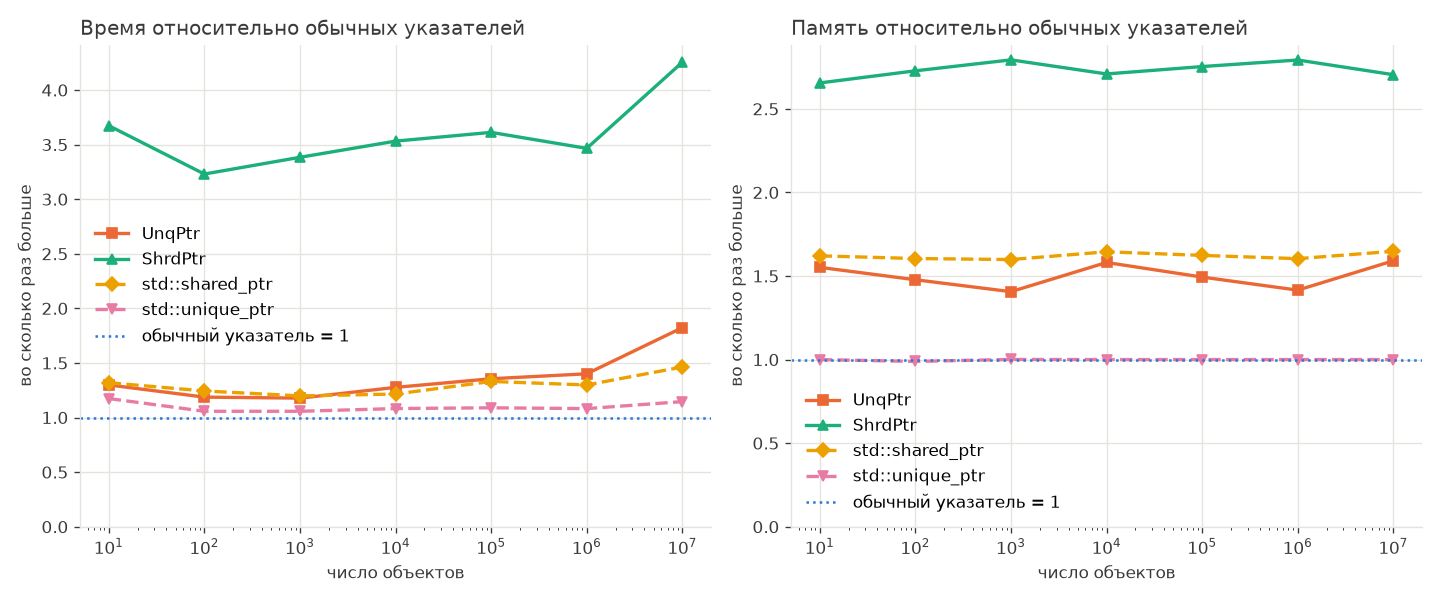
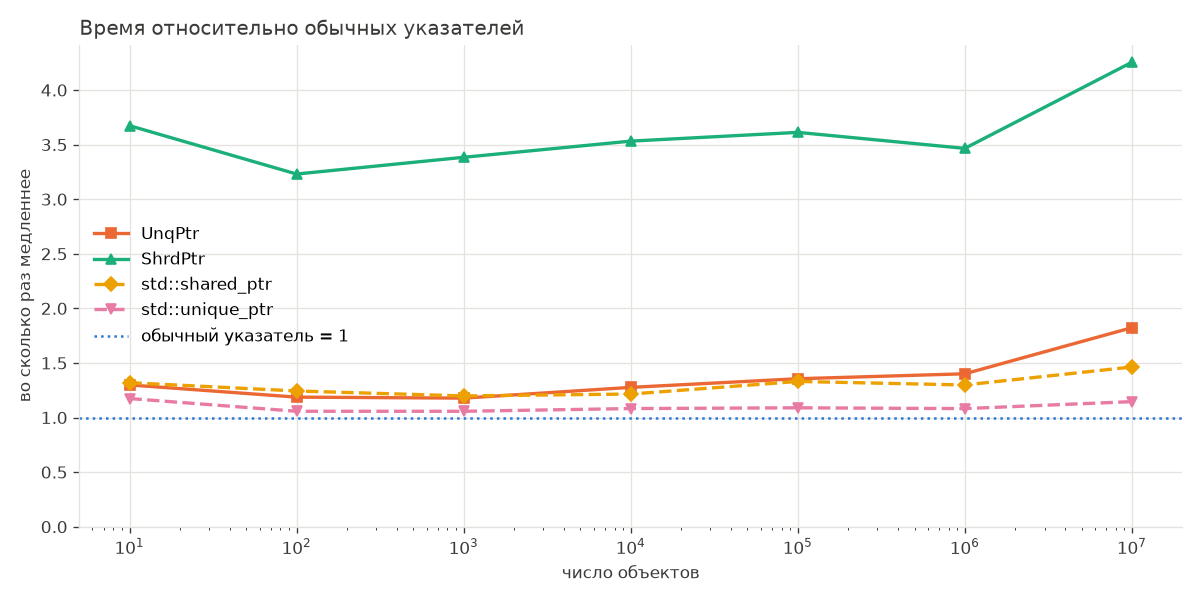
update overhead plot

diff --git a/scripts/plot.py b/scripts/plot.py
@@ -96,21 +96,17 @@ def draw_log_chart(data, key, ylabel, title, name):
 
 
 def draw_overhead(data):
-    figure, axes = plt.subplots(1, 2, figsize=(12, 5))
-    for axis, key, title in (
-        (axes[0], "time_ms", "Время относительно обычных указателей"),
-        (axes[1], "memory_kb", "Память относительно обычных указателей"),
-    ):
-        for method in METHODS[1:]:
-            ns = sorted(data[method])
-            ratios = [data[method][n][key] / data["raw"][n][key] for n in ns]
-            plot_line(axis, ns, ratios, method)
-        axis.axhline(1.0, color=COLORS["raw"], linewidth=1.5, linestyle=":",
-                     label="обычный указатель = 1")
-        axis.set_xscale("log")
-        axis.set_ylim(bottom=0)
-        style(axis, "во сколько раз больше", title)
-        axis.legend()
+    figure, axis = plt.subplots(figsize=(10, 5))
+    for method in METHODS[1:]:
+        ns = sorted(data[method])
+        ratios = [data[method][n]["time_ms"] / data["raw"][n]["time_ms"] for n in ns]
+        plot_line(axis, ns, ratios, method)
+    axis.axhline(1.0, color=COLORS["raw"], linewidth=1.5, linestyle=":",
+                 label="обычный указатель = 1")
+    axis.set_xscale("log")
+    axis.set_ylim(bottom=0)
+    style(axis, "во сколько раз медленнее", "Время относительно обычных указателей")
+    axis.legend()
     save(figure, "overhead.png")
 
 
